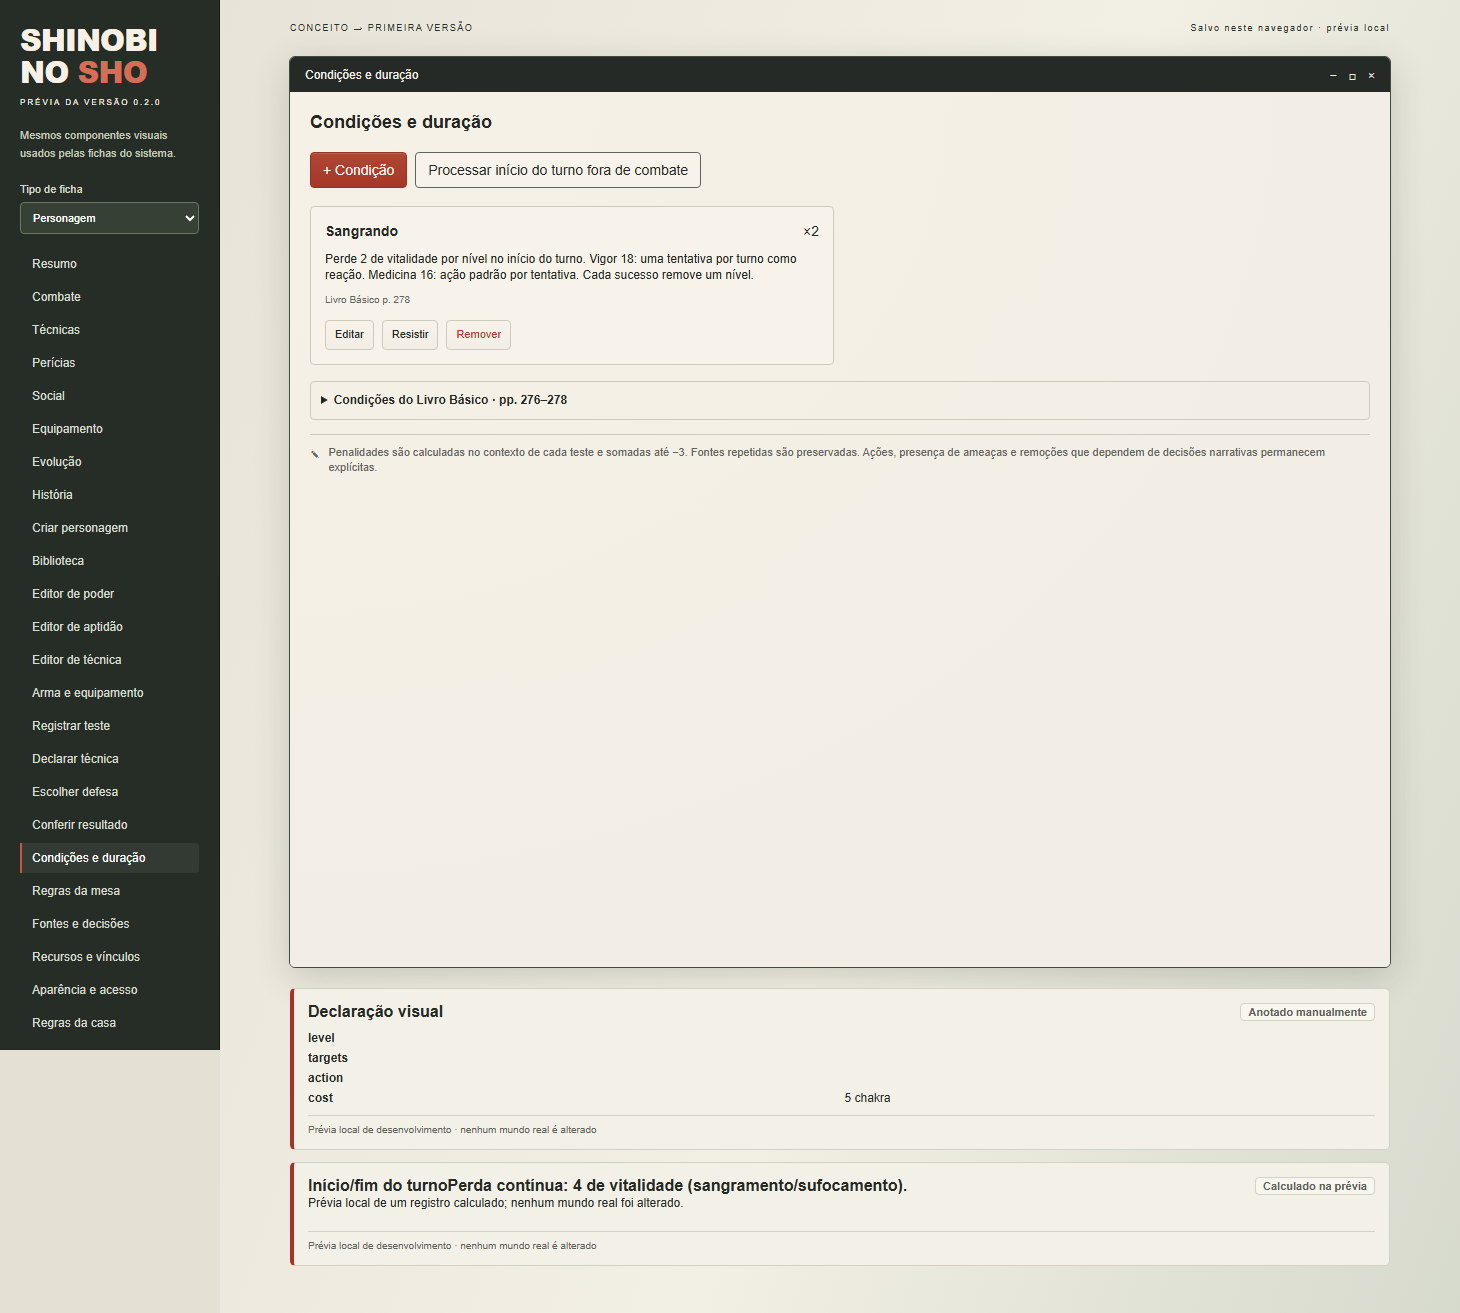
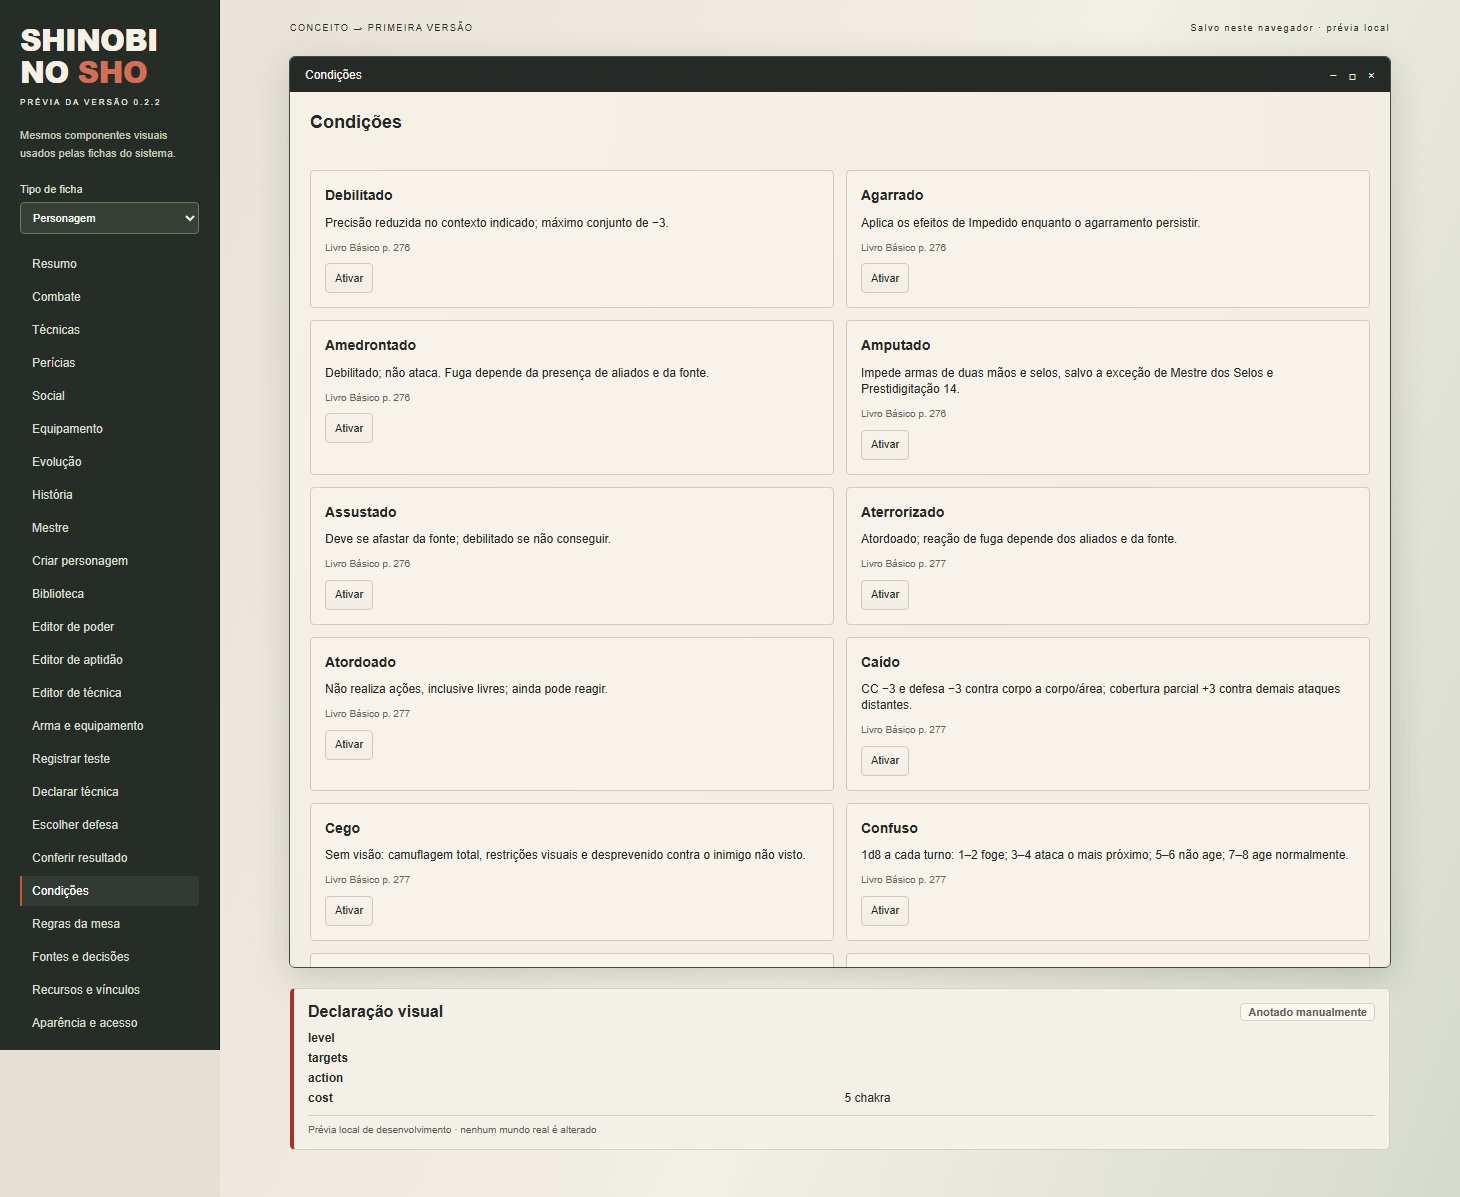
feat: simplify conditions add GM tab and enforce resource recovery limits

diff --git a/styles/automation.css b/styles/automation.css
@@ -27,3 +27,5 @@
 
 .sns-app .sns-base-status {font-size:12px;line-height:1.5;margin-top:12px;}
 .sns-app .sns-base-status[data-pending=true] {border-left:4px solid var(--sns-red);padding:10px;background:var(--sns-card);font-weight:600;}
+
+.sns-app .sns-condition-card[data-active=true] {border-left:4px solid var(--sns-red);}

diff --git a/docs/AUTOMACOES.md b/docs/AUTOMACOES.md
@@ -1,4 +1,4 @@
-# Automações da versão 0.2.0
+# Automações da versão 0.2.2
 
 ## Resumo e progressão
 
@@ -20,13 +20,13 @@ Na criação, todos os pontos de atributos devem ser distribuídos. A janela des
 
 A escolha entre avanço por nível inteiro e EXP pertence às **Regras da casa**. No primeiro modo, subir cada NC concede 6 pontos de atributos. No segundo, subir o NC muda os limites e o mestre concede EXP separadamente, inclusive frações. Trocar o modo não corrige pontos anteriores retroativamente. Há histórico de concessões e distribuições na ficha.
 
-Fichas antigas exigem revisão e ativação explícita. A ativação preserva recursos atuais. Fichas novas completas começam com vida/chakra cheios; aumentar os máximos na evolução não restaura valores atuais. Perícias conservam precisões manuais existentes; resistências sem precisão informada usam metade do atributo arredondada para cima mais pontos investidos. A restrição de um ponto mínimo é conferida nos usos das cinco perícias restritas. Requisitos adicionais de aptidões continuam sob responsabilidade da mesa.
+Fichas antigas exigem revisão e ativação explícita. A ativação preserva recursos atuais, respeitando os máximos. Fichas novas completas começam com vida/chakra cheios; aumentar os máximos na evolução não restaura valores atuais. Perícias conservam precisões manuais existentes; resistências sem precisão informada usam metade do atributo arredondada para cima mais pontos investidos. A restrição de um ponto mínimo é conferida nos usos das cinco perícias restritas. Requisitos adicionais de aptidões continuam sob responsabilidade da mesa.
 
 ## Recursos
 
-**Recuperação e chakra** oferece dano letal, cura, recuperação de chakra, gasto, drenagem forçada e descanso completo. As operações registram a alteração no chat. Dano recebido com vida positiva para em zero; dano posterior pode torná-la negativa. Vida zero, inconsciência, morrendo, estabilidade, exaustão por chakra e morte são derivados dos limiares do Básico pp.259–260. Drenagem forçada é distinta de gasto comum, que não permite saldo negativo. Cura comum e descanso não ressuscitam.
+**Descansar** abre diretamente a prévia da recuperação completa. **Recuperação e chakra** oferece dano letal, cura, recuperação de chakra, gasto, drenagem forçada e descanso completo. As operações registram a alteração no chat. Edições diretas e atualizações dos documentos limitam os recursos atuais aos máximos, preservando valores negativos. O mestre também ajusta excessos antigos na sincronização inicial. Dano recebido com vida positiva para em zero; dano posterior pode torná-la negativa. Vida zero, inconsciência, morrendo, estabilidade, exaustão por chakra e morte são derivados dos limiares do Básico pp.259–260. Drenagem forçada é distinta de gasto comum, que não permite saldo negativo. Cura comum e descanso não ressuscitam.
 
-Descanso completo exige confirmação de oito horas sem interrupção significativa: recupera 10 + 2 × VIG de vida e 5 + 2 × ESP de chakra, até os máximos, e remove fadiga/exaustão sem duração própria. Duração específica da fonte é preservada. Exceções de hijutsus não são presumidas.
+A recuperação prevista é exibida antes de aplicar. Descanso completo exige confirmação de oito horas sem interrupção significativa: recupera 10 + 2 × VIG de vida e 5 + 2 × ESP de chakra, até os máximos, e remove fadiga/exaustão sem duração própria. Duração específica da fonte é preservada. Frações opcionais de descanso e exceções de hijutsus não são aplicadas automaticamente nesta versão.
 
 ## Condições
 
@@ -34,18 +34,22 @@ O catálogo cobre os nomes do Básico pp.276–278, incluindo Paralisado como ap
 
 - Penalidades de condições são contextuais e limitadas a −3 por teste. Não diminuem permanentemente os atributos comprados. Fontes repetidas são preservadas; aplica-se a maior gravidade pertinente.
 - Fadiga repetida evolui para exaustão/inconsciência. Lento reduz o deslocamento; Impedido e Indefeso o zeram.
-- Caído, Fintado, Flanqueado, Desprevenido, Ofuscado, Cego e Surdo afetam apenas os contextos pertinentes. O formulário pergunta sobre tipo de ataque, sentidos, atacantes envolvidos e exceções.
+- O checklist de contexto foi retirado por decisão da mesa. Fintado e Desprevenido mantêm seus efeitos diretos; circunstâncias como sentidos usados, flanqueamento, tipo de ataque recebido, cobertura e localização do alvo ficam com os participantes. Informe o ajuste no campo Modificador da mesa. Caído mantém a penalidade direta de CC; as defesas circunstanciais são ajustadas manualmente.
 - Atordoado conserva reações. Indefeso bloqueia ações e defesas, com a exceção do teste para remover a própria causa. Inconsciência bloqueia testes comuns; a estabilização de Morrendo usa sua exceção expressa.
-- Amputado bloqueia armas de duas mãos e selos nos testes correspondentes; a exceção de Mestre dos Selos/Prestidigitação 14 deve ser confirmada pela mesa.
-- Medo e Fascinado têm controles para encerrar o efeito quando a fonte some ou surge ameaça óbvia. A defesa como reação também encerra Fascinado. A mesa determina retirada, fuga, presença de aliados e ameaças; o sistema não move tokens.
-- Confuso rola 1d8 por turno e guarda o comportamento. Em 5–6 mantém reações de defesa, conforme decisão expressa do usuário. Fuga/alvo mais próximo exigem confirmação contextual.
+- Amputado apresenta sua regra para consulta; armas de duas mãos, selos e a exceção de Mestre dos Selos/Prestidigitação 14 são conferidos pela mesa.
+- O painel usa um botão Ativar/Desativar por condição; a mesa encerra medo/fascínio quando a fonte ou ameaça determinar. A defesa como reação também encerra Fascinado. A mesa determina retirada, fuga, presença de aliados e ameaças; o sistema não move tokens.
+- Confuso rola 1d8 por turno e guarda o comportamento. Em 5–6 mantém reações de defesa, conforme decisão expressa do usuário. Fuga e escolha do alvo mais próximo são conduzidas pela mesa.
 - Sangrando causa 2 de vida por nível no início do turno. **Vigor 18: uma tentativa por turno, como reação**, independentemente dos níveis, conforme decisão do usuário. **Medicina 16: ação padrão por tentativa**, com seleção do personagem que realiza o teste. Cada sucesso remove um nível. Remover todo o sangramento de Morrendo produz Estável, sem curar.
 - Sufocamento pede Vigor como ação livre a cada turno, com dificuldade da fonte/mestre, aumentando em 1 por turno. Falha aplica o dano fixo informado ou o NC. Depois da inconsciência, o dano continua automaticamente enquanto o sufocamento persistir.
 - Resistência à própria fonte ignora suas penalidades, preservando as de outras fontes. A dificuldade e o teste devem vir da técnica ou do mestre. Se houve agravamento, informe a condição inicial para que sucessos voltem pelos estágios publicados antes da remoção.
 
-O mestre ativo processa início/fim de turno no rastreador. Uma marca persistente por fase evita repetir dano ao receber o mesmo evento; pendências são recuperáveis sem aplicar dano novamente. Retroceder o rastreador não desfaz eventos; ao avançar novamente pela mesma fase ela não é reaplicada. Fora de combate, use **Processar início do turno fora de combate**. Uma nova passagem libera outra tentativa de Vigor. Para durações de cena ou dependentes da fonte, a remoção é explícita.
+O mestre ativo processa início/fim de turno no rastreador. Uma marca persistente por fase evita repetir dano ao receber o mesmo evento; pendências são recuperáveis sem aplicar dano novamente. Retroceder o rastreador não desfaz eventos; ao avançar novamente pela mesma fase ela não é reaplicada. O controle de turno fora de combate fica com a mesa. Para durações de cena ou dependentes da fonte, a remoção é explícita.
 
-Cego e adversário não visto exigem localização por outro sentido/informação de aliado. Sensor dispensa o erro; uma área que cobre ao menos 50% da camuflagem total pode dispensá-lo, mas ainda exige localizar o alvo. Após acerto não crítico confirmado, rola-se 1d8: 1–4 falha. Se a defesa não foi informada, o chat oferece confirmação do acerto antes desse teste. Fonte: Básico p.273. Outras camuflagens ambientais simultâneas precisam ser resolvidas pela mesa.
+Camuflagem, localização por sentidos, Sensor, áreas e outras circunstâncias continuam descritos no catálogo para consulta, mas o formulário de testes não coleta mais essas escolhas. A resolução fica com a mesa, conforme pedido do usuário. O serviço anterior de camuflagem permanece para mensagens antigas, sem ser disparado pelos novos testes.
+
+## Aba Mestre
+
+Somente mestres veem a aba e podem abrir as configurações. Ela reúne livros utilizados, versões Social/Senjutsu/Jiton, anotações de regras opcionais e acesso às Regras da casa. O perfil é compartilhado pelo mundo inteiro; editar um personagem não cria um perfil diferente. A seleção de livros e versões é documental, enquanto o avanço por EXP/nível tem efeito mecânico. Anotações de opcionais não criam automações adicionais.
 
 ## Limites de resolução
 

diff --git a/RELEASE-NOTES.md b/RELEASE-NOTES.md
@@ -1,11 +1,11 @@
-# Shinobi no Sho 0.2.1
+# Shinobi no Sho 0.2.2
 
-A evolução agora destaca os atributos abaixo do mínimo do novo NC e indica quantos pontos são necessários. O aviso é atualizado durante a edição.
+- Vida e chakra atuais são limitados aos máximos. Valores excedentes antigos são ajustados quando o mestre sincroniza as fichas.
+- Botão **Descansar** com prévia: 10 + 2 × Vigor de vida e 5 + 2 × Espírito de chakra. Exige oito horas de sono sem interrupção significativa, respeita máximos e preserva fadiga/exaustão com duração própria.
+- Condições agora apresentam um botão **Ativar/Desativar** por condição. Consequências automáticas de recursos continuam ligadas à causa.
+- Checklist de contexto retirado dos testes; a mesa informa ajustes no modificador manual.
+- Nova aba **Mestre**, oculta para jogadores, reúne livros, versões, regras opcionais, anotações e acesso ao avanço por EXP/nível.
 
-Os saldos de atributos e bases de combate aparecem separadamente, com quantidade faltante ou excedente. Nas bases, também é conferido o limite de transferência de 2 pontos.
+Manifesto atualizado: https://github.com/darkmonsterpro0-droid/shinobi-no-sho/releases/latest/download/system.json
 
-Conforme decisão da mesa, as bases só podem ser distribuídas na criação. Na evolução, ficam somente para consulta, inclusive para o mestre.
-
-Manifesto de atualização: https://github.com/darkmonsterpro0-droid/shinobi-no-sho/releases/latest/download/system.json
-
-38 testes de código e verificação dos fluxos na prévia. A validação dentro do Foundry real continua pendente; veja docs/VALIDACAO.md.
+41 testes de código e 18 fluxos da prévia aprovados. Validação nativa dentro do Foundry continua pendente; detalhes em docs/VALIDACAO.md.

diff --git a/docs/VALIDACAO.md b/docs/VALIDACAO.md
@@ -1,4 +1,4 @@
-# Validação até a versão 0.2.1
+# Validação até a versão 0.2.2
 
 Atualizado em 22/10/2026. Alvo: Foundry VTT 14. Interface em português brasileiro, resumo calculado e condições.
 
@@ -33,6 +33,14 @@ Atualizado em 22/10/2026. Alvo: Foundry VTT 14. Interface em português brasilei
 - Na evolução de NC4 para NC5, o navegador confere o aviso de Inteligência 0 → 1 e sua resolução ao investir o ponto necessário.
 - Na criação, alterar as bases produz mensagens próprias de excesso, falta e distribuição completa durante a edição. Na evolução, os campos são somente para leitura.
 - Os serviços rejeitam alteração das bases após a criação, inclusive com usuário mestre e chamadas diretas de atualização.
+
+## Correções da 0.2.2
+
+- 41 testes de código e 18 verificações de fluxos da prévia aprovados. Os serviços conferem limites dos recursos em atualizações planas/nested, valores negativos, correção de excessos anteriores, alternância reversível das condições, descanso interrompido e preservação de fadiga com duração própria.
+- O navegador confere que vida/chakra editados acima do máximo voltam ao limite, que as condições usam apenas Ativar/Desativar e que o descanso mostra e aplica as fórmulas com remoção da fadiga comum.
+- Aba Mestre conferida em renderização de jogador e de mestre, incluindo tentativa de selecionar a aba diretamente. Perfil salvo pela aba do mestre com revisão de impacto.
+- Testes sem checklist de contexto e com modificador manual. Dez telas densas verificadas em 320 e 420 pixels. Capturas de descanso, condições e aba Mestre inspecionadas.
+- Os testes usam documentos simulados e Chromium. Não houve execução nativa do Foundry nesta correção.
 
 ## Limite atual
 

diff --git a/docs/INTERFACE.md b/docs/INTERFACE.md
@@ -2,7 +2,7 @@
 
 A composição revisada na 0.1.2 mantém a composição para se aproximar das pranchas aprovadas: marfim e grafite, acentos vermelhos, retrato à esquerda, identificação e recursos em destaque, navegação horizontal e conteúdo em cartões. O retrato padrão em tinta sobre papel foi gerado para o projeto. Os ícones vetoriais são originais. Retratos pessoais continuam substituíveis pelo seletor de imagem do Foundry.
 
-As fichas possuem oito abas: resumo, combate, técnicas, perícias, social, equipamento, evolução e história. Criaturas vinculadas e marionetes apresentam também seus campos de origem, controle, reserva pagadora e estrutura, conforme o tipo. Esses vínculos são anotações.
+Os jogadores veem oito abas: resumo, combate, técnicas, perícias, social, equipamento, evolução e história. Mestres veem também a aba Mestre. Criaturas vinculadas e marionetes apresentam também seus campos de origem, controle, reserva pagadora e estrutura, conforme o tipo. Esses vínculos são anotações.
 
 As demais janelas incluem editores dos cinco tipos de itens, biblioteca, condições e duração, cadastro de condição, recursos específicos, vínculos, registros manuais de teste/declaração/defesa/resultado, regras da mesa, revisão de impacto, fontes e decisões, cadastro de decisão, aparência e assistente de personagem com cinco etapas.
 
@@ -53,3 +53,11 @@ Orçamento, investimentos, saldo e limites aparecem juntos. O NC pode ser escolh
 ## Condições com efeitos
 
 ![Condições](images/automated-conditions.png)
+
+## Descanso completo
+
+![Descanso](images/rest.png)
+
+## Aba exclusiva do mestre
+
+![Mestre](images/gm.png)

diff --git a/CHANGELOG.md b/CHANGELOG.md
@@ -1,5 +1,14 @@
 # Histórico de versões
 
+## 0.2.2 — 2026-10-22
+
+- Limita vida e chakra atuais aos máximos ao salvar, inclusive em atualizações de documentos; corrige excessos existentes na sincronização conduzida pelo mestre. Preserva valores negativos válidos.
+- Adiciona botão Descansar, prévia das recuperações e confirmação de 8 horas sem interrupção. Aplica as fórmulas do Básico e remove fadiga/exaustão sem duração própria.
+- Simplifica o painel de condições para um botão Ativar/Desativar por condição, preservando os efeitos e suas informações ao desativar.
+- Retira o checklist contextual dos testes; circunstâncias ficam com a mesa e podem ser refletidas no modificador manual.
+- Adiciona aba Mestre exclusiva para livros, versões, regras opcionais, anotações e acesso às regras da casa. Configurações não podem ser abertas por jogadores.
+- Amplia a verificação para 41 testes de código e 18 fluxos da prévia.
+
 ## 0.2.1 — 2026-10-22
 
 - Destaca atributos abaixo do mínimo ao elevar o NC, com valores atuais, mínimo exigido e pontos necessários. O aviso acompanha a edição dos campos.

diff --git a/AGENTS.md b/AGENTS.md
@@ -14,3 +14,5 @@
 - Sangrando: uma tentativa de Vigor 18 por turno, independentemente dos níveis; Medicina 16 usa uma ação padrão por tentativa. Confuso 5–6 mantém reações defensivas. Decisões expressas do usuário.
 
 - Decisão de 22/10/2026: bases de combate editáveis somente na criação, inclusive para o mestre. Na evolução, consultar sem redistribuir.
+
+- Decisões de 22/10/2026: painel de condições com um botão Ativar/Desativar por condição; retirar checklist de contexto dos testes, deixando circunstâncias para a mesa e modificador manual. Aba Mestre deve ficar oculta para jogadores. Recursos atuais não podem exceder os máximos.
